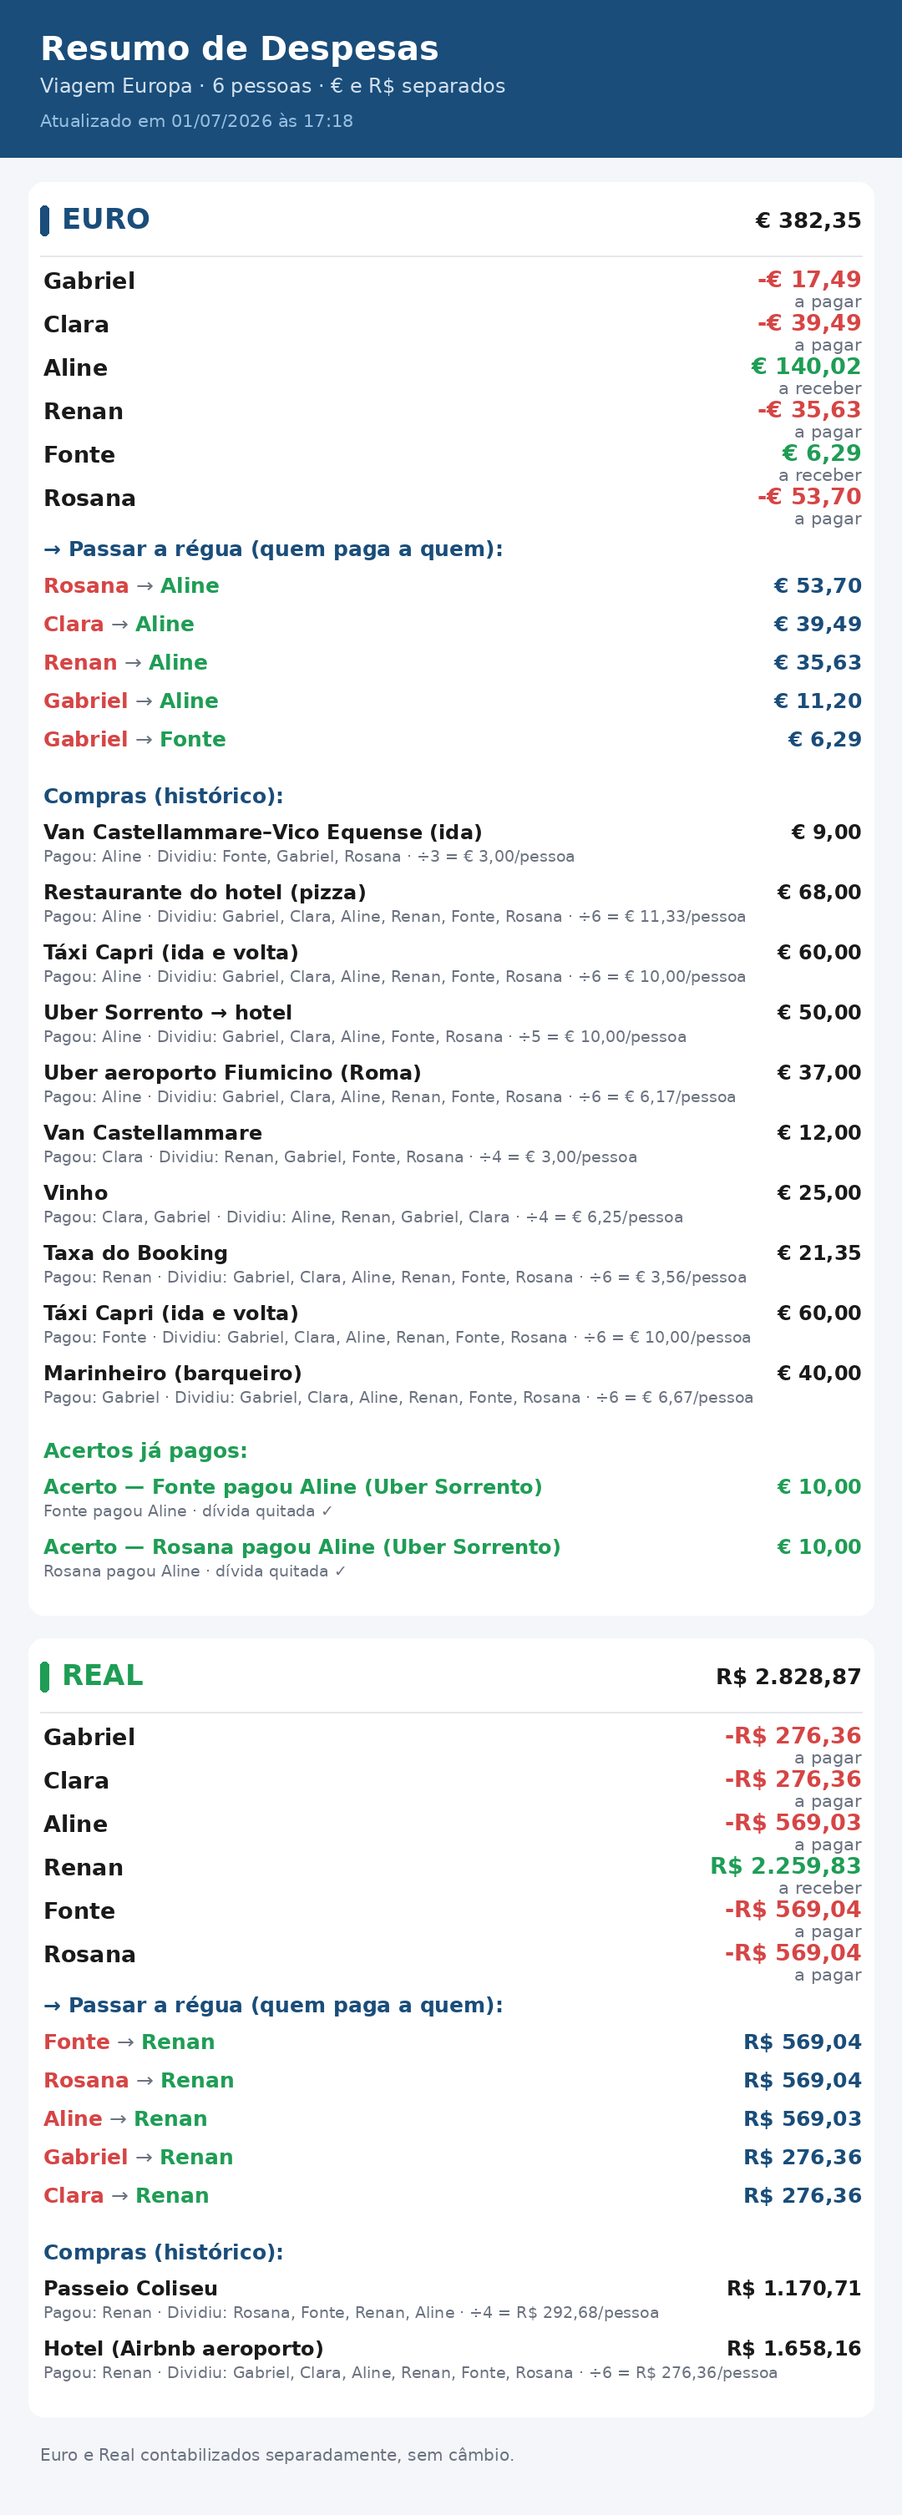
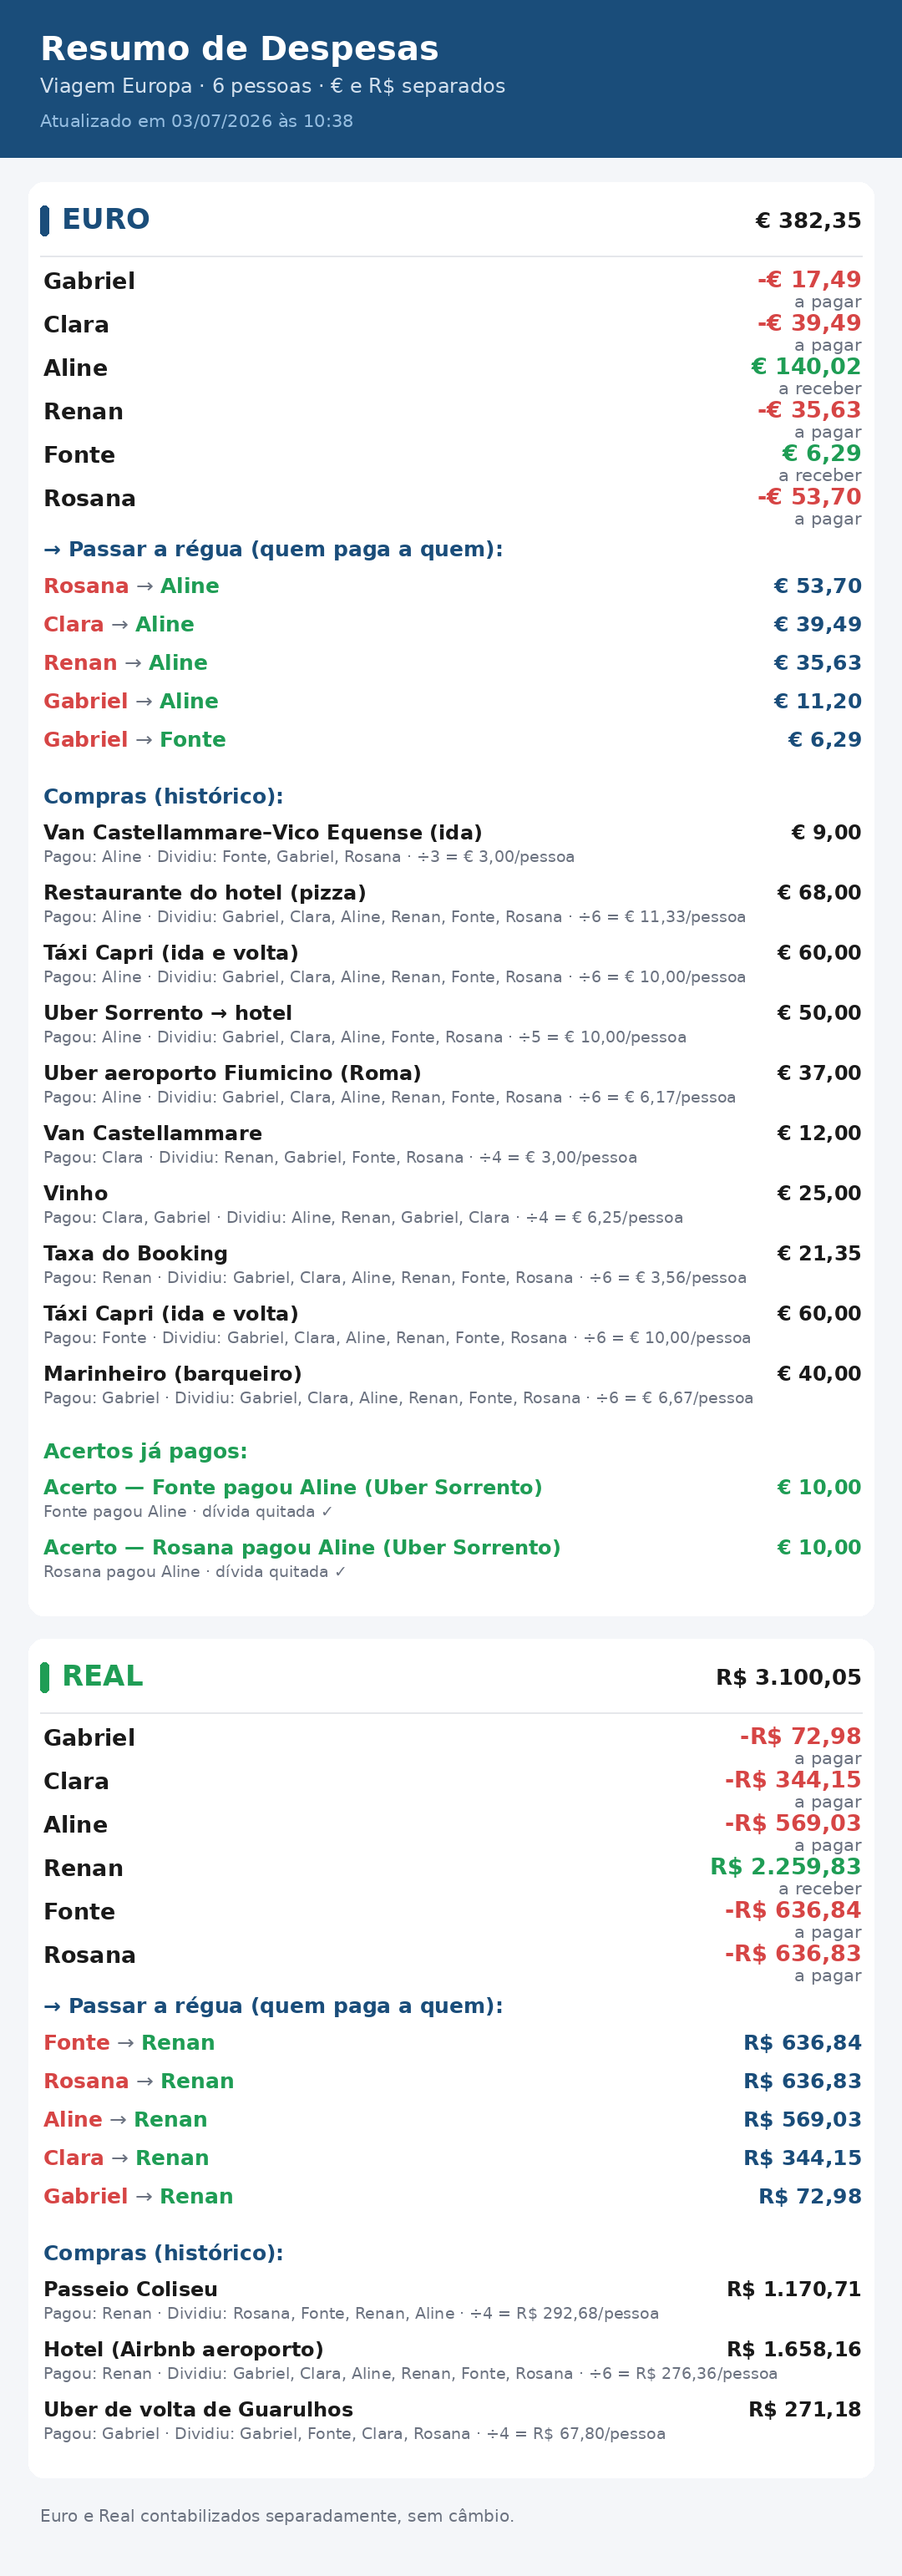
Lançamento (Real): Uber de volta de Guarulhos R$ 271,18 (Gabriel; Gabriel/Fonte/Clara/Rosana)
Claude-Session: https://claude.ai/code/session_01WZZUhXQ16qMQfhyK5EDhBH

diff --git a/lancamentos.js b/lancamentos.js
@@ -38,6 +38,9 @@ window.LANCAMENTOS = [
   { desc: "Passeio Coliseu", valor: "1170,71", moeda: "BRL", pagou: ["Renan"], dividir: ["Rosana", "Fonte", "Renan", "Aline"] },
   { desc: "Hotel (Airbnb aeroporto)", valor: "1658,16", moeda: "BRL", pagou: ["Renan"], dividir: TODOS },
 
+  // ----- Gabriel pagou (Real) -----
+  { desc: "Uber de volta de Guarulhos", valor: "271,18", moeda: "BRL", pagou: ["Gabriel"], dividir: ["Gabriel", "Fonte", "Clara", "Rosana"] },
+
   // ----- Fonte pagou -----
   { desc: "Táxi Capri (ida e volta)", valor: "60,00", moeda: "EUR", pagou: ["Fonte"], dividir: TODOS },
 
